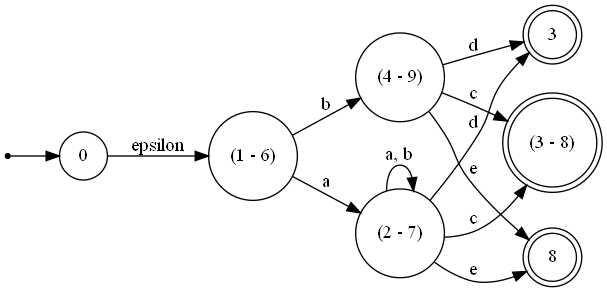
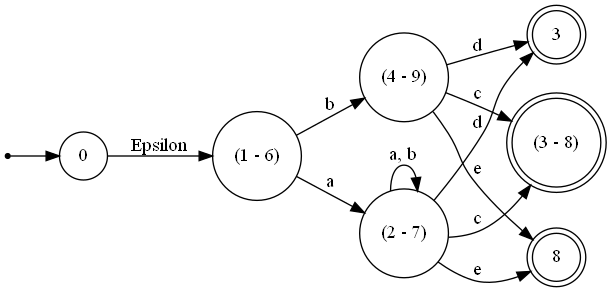
opti
début de l'optimisation, et debug de truc qui bug pas mais qui aurait pu

diff --git a/projet.py b/projet.py
@@ -30,9 +30,11 @@ class Automate:
         '''Ajoute une transition à l'automate, si la transition existe déjà, les symboles sont concaténés'''
         for transition in self.transitions:
             if transition[0] == source and transition[2] == destination:
-                self.transitions.append((source, transition[1] + ', ' + symbole, destination))
-                self.transitions.remove(transition)
-                return
+                if symbole in transition[1]:
+                    return
+                else:
+                    symbole = transition[1] + ', ' + symbole
+                    self.transitions.remove(transition)
         self.transitions.append((source, symbole, destination))
         
         
@@ -88,12 +90,12 @@ class Automate:
         txt = ""
         file = open(file_name, "w")
         
-        for lettre in self.alphabet:
-            txt += lettre + " "
-        txt += "\n"
-        
         for etat in self.etats:
             txt += etat + " "
+        txt += "\n"
+        
+        for lettre in self.alphabet:
+            txt += lettre + " "
         txt += "\n"
         
         for etat in self.etats_initial:
@@ -112,25 +114,21 @@ class Automate:
 
 
     def reconstruire(self, etats):
+        '''Permet de construire une liste d'états à partir d'une chaine de caractères'''
         L_etat = []
         i = 0
         while i < len(etats):
             if etats[i] == ' ' or etats[i] == '\n' or etats[i] == '\t':
                 pass
             elif etats[i][0] == '(':
-                j = 0
-                multi_etat = '('
-                while etats[i + j] != ')':
-                    j += 1
-                    multi_etat = multi_etat + etats[i+j]
-                i += j
+                multi_etat = ''
+                while etats[i] != ')':
+                    multi_etat = multi_etat + etats[i]
+                    i += 1
                 L_etat.append(multi_etat)
-            elif etats[i][0] == 'e' and i != len(etats) - 1:
-                if etats[i+1] == 'p' and etats[i+2] == 's' and etats[i+3] == 'i' and etats[i+4] == 'l' and etats[i+5] == 'o' and etats[i+6] == 'n':
-                    L_etat.append('epsilon')
-                    i += 6
-                else:
-                    L_etat.append(etats[i])
+            elif etats[i][0] == 'E':
+                L_etat.append('Epsilon')
+                i += 6
             else:
                 L_etat.append(etats[i])
             i += 1
@@ -143,11 +141,11 @@ class Automate:
         lines = file.readlines()
         file.close()
         
-        self.alphabet = lines[0].split()
-        
-        etat = self.reconstruire(lines[1])
+        etat = self.reconstruire(lines[0])
         for i in range(len(etat)):
             self.ajouter_etat(etat[i])
+        
+        self.alphabet = lines[1].split()
         
         initial = self.reconstruire(lines[2])
         for i in range(len(initial)):
@@ -170,6 +168,14 @@ class Automate:
             for symbole in self.alphabet:
                 if symbole not in possede:
                     self.ajouter_transition(etat, symbole, 'puit')
+    
+    
+    def supprimer_puit(self):
+        '''Supprime l'état puit de l'automate'''
+        if 'puit' in self.etats:
+            while self.transitions[-1][2] == 'puit':
+                self.transitions.pop()
+            self.etats.remove('puit')
 
 
     def table_transition(self):
@@ -220,6 +226,7 @@ class Automate:
     def determiniser(self):
         '''Retourne un automate déterministe équivalent à l'automate'''
         aut = Automate()
+        self.supprimer_puit()
         aut.alphabet = self.alphabet
         table = self.table_transition()
         terminal = []
@@ -292,13 +299,13 @@ def copie(aut):
     return aut2
 
 
-def union(aut1, aut2):
+def union_automate(aut1, aut2):
     '''Retourne un automate qui est l'union des deux automates passés en paramètre'''
     aut3 = Automate()
     aut3 = copie(aut1)
     aut3.etats_initial = []
     aut3.ajouter_etat('0', est_initial=True)
-    aut3.alphabet.append('epsilon')
+    aut3.alphabet.append('Epsilon')
     
     for lettre in aut2.alphabet:
         if lettre not in aut3.alphabet:
@@ -320,19 +327,19 @@ def union(aut1, aut2):
         aut3.etats_finaux.append(str(int(etat) + int(last_etat)))
     
     for etat in aut1.etats_initial:
-        aut3.ajouter_transition('0', "epsilon", etat)
+        aut3.ajouter_transition('0', "Epsilon", etat)
     for etat in aut2.etats_initial:
-        aut3.ajouter_transition('0', "epsilon", str(int(etat) + int(last_etat)))
+        aut3.ajouter_transition('0', "Epsilon", str(int(etat) + int(last_etat)))
             
     return aut3
 
 
-def concatenation(aut1, aut2):
+def concatenation_automate(aut1, aut2):
     '''Retourne un automate qui est la concaténation des deux automates passés en paramètre'''
     aut3 = Automate()
     last_etat = str(int(aut1.etats[-1]) + 1)
     aut3 = copie(aut1)
-    aut3.alphabet.append('epsilon')
+    aut3.alphabet.append('Epsilon')
     
     for lettre in aut2.alphabet:
         if lettre not in aut3.alphabet:
@@ -348,26 +355,26 @@ def concatenation(aut1, aut2):
     aut3.etats_finaux = [str(int(etat) + int(last_etat)) for etat in aut2.etats_finaux]
     
     for etat in aut1.etats_finaux:
-        aut3.ajouter_transition(etat, "epsilon", last_etat)
-    for etat in aut2.etat_initial:
-        aut3.ajouter_transition(last_etat, "epsilon", str(int(etat) + int(last_etat)))
+        aut3.ajouter_transition(etat, "Epsilon", last_etat)
+    for etat in aut2.etats_initial:
+        aut3.ajouter_transition(last_etat, "Epsilon", str(int(etat) + int(last_etat)))
     
     return aut3
 
 
-def duplication(aut):
+def duplication_automate(aut):
     '''Retourne un automate qui est la duplication de l'automate passé en paramètre'''
     aut2 = Automate()
     aut2 = copie(aut)
     last_etat = str(int(aut.etats[-1]) + 1)
-    aut2.alphabet.append('epsilon')
+    aut2.alphabet.append('Epsilon')
     
     aut2.ajouter_etat(last_etat, est_initial=True, est_terminal=True)
     
     for etat in aut.etats_finaux:
-        aut2.ajouter_transition(etat, "epsilon", last_etat)
-    for etat in aut.etat_initial:
-        aut2.ajouter_transition(last_etat, "epsilon", etat)
+        aut2.ajouter_transition(etat, "Epsilon", last_etat)
+    for etat in aut.etats_initial:
+        aut2.ajouter_transition(last_etat, "Epsilon", etat)
   
     return aut2
 
@@ -375,31 +382,31 @@ def duplication(aut):
 
 
 
-# aut1 = Automate()
-# aut1.charger("automate1.txt")
-# aut2 = Automate()
-# aut2.charger("automate2.txt")
+aut1 = Automate()
+aut1.charger("automate1.txt")
+aut2 = Automate()
+aut2.charger("automate2.txt")
 
-# aut3 = concatenation(aut1, aut2)
+# aut3 = concatenation_automate(aut1, aut2)
 # aut3.sauvegarder("automate3.txt")
 # aut3.to_png('aut3')
 
-# aut5 = Automate()
-# aut5.charger("automate5.txt")
-# aut5.determiniser()
-# aut5.to_png('aut5')
+aut5 = Automate()
+aut5.charger("automate5.txt")
+aut5.determiniser()
+aut5.to_png('aut5')
 
-# aut4 = duplication(aut5)
-# aut4.sauvegarder("automate4.txt")
-# aut4.to_png('aut4')
+aut4 = duplication_automate(aut5)
+aut4.sauvegarder("automate4.txt")
+aut4.to_png('aut4')
 
-# aut6 = Automate()
-# aut6.charger("automate6.txt")
-# aut6 = union(aut1, aut2)
-# # aut6.completer()
-# # aut6.determiniser()
-# aut6.sauvegarder("automate6.txt")
-# aut6.to_png('aut6')
+aut6 = Automate()
+aut6.charger("automate6.txt")
+aut6 = union_automate(aut1, aut2)
+aut6.completer()
+aut6.determiniser()
+aut6.sauvegarder("automate6.txt")
+aut6.to_png('aut6')
 
 
 # aut7 = Automate()
